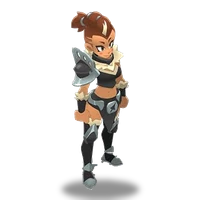
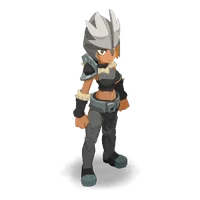
Forgelance : vrai rendu du jeu (8 têtes par sexe, couleurs, capes)
- Le jeu demande à DofusDB le corps et la tête séparément, cale la tête sur l'ombre au sol, la pose sur le cou et colore la peau quand elle arrive pâle (forgeLook dans ui.js). Résultat gardé en mémoire et dans le navigateur.
- Les 16 apparences de base et les portraits du Forgelance viennent de ce rendu ; choix de la tête et des couleurs réactivés pour lui.
- Les coiffes ne s'affichent pas sur le Forgelance (le moteur de rendu ne sait pas les poser).
- sw.js : images de renderer.dofusdb.fr mises en cache, cache des images media-v6.

Claude-Session: https://claude.ai/code/session_01TgfgsFbfimzPE6UbE45j36

Changed region(s): [[0.3, 0.03, 0.72, 1.0]]

diff --git a/js/ui.js b/js/ui.js
@@ -182,23 +182,72 @@ const lookLocal = (cls, sex, hi) => `assets/look/${cls}_${sex === "f" ? "f" : "m
 function lookUrl(c, opts = {}) {
   const L = LK.CLASS_LOOKS[c.cls]; if (!L) return null; const sx = c.sex === "f" ? "f" : "m"; const D2 = L[sx]; const hi = Math.max(0, Math.min(D2.heads.length - 1, c.head || 0));
   const skins = [D2.body, D2.heads[hi]];
-  if (!opts.bare && c.equip) ["coiffe", "cape"].forEach((sl) => { const it = S && S.items[c.equip[sl]]; const sk = it && LK.ITEM_SKINS[it.tpl]; if (sk) skins.push(sk); });
+  if (!opts.bare && c.equip) ["coiffe", "cape"].forEach((sl) => { const it = S && S.items[c.equip[sl]]; const sk = it && LK.ITEM_SKINS[it.tpl]; if (sk && !(c.cls === "forge" && sl === "coiffe")) skins.push(sk); }); // le moteur de rendu ne pose aucune coiffe sur le Forgelance
   const pal = LK.PALETTES.find((p) => p.id === (opts.palette || c.palette)) || LK.PALETTES[0];
   const cols = D2.colors.slice(); if (pal && pal.c) pal.c.forEach((v, i) => (cols[i + 1] = v));
-  if (c.cls === "forge" || (skins.length === 2 && (!pal || !pal.c))) return lookLocal(c.cls, sx, hi); // Forgelance : rendu Ankama défaillant (tête détachée), on garde nos images recomposées
+  if (skins.length === 2 && (!pal || !pal.c)) return lookLocal(c.cls, sx, hi);
+  if (c.cls === "forge") return forgeLook(skins, cols, sx, hi); // Forgelance : tête recollée sur le cou (voir forgeLook)
   const look = `{1|${skins.join(",")}|${cols.map((v, i) => `${i + 1}=${v}`).join(",")}|140}`;
   let hex = ""; for (const ch of unescape(encodeURIComponent(look))) hex += ch.charCodeAt(0).toString(16).padStart(2, "0");
   return `https://static.ankama.com/dofus/renderer/look/${hex}/full/1/200_200-10.png`;
 }
-const lookImg = (c, cls = "look", opts) => { const u = lookUrl(c, opts); if (!u) return ""; const fb = lookLocal(c.cls, c.sex, c.head || 0); return `<img class="${cls}" src="${u}" alt="" loading="lazy" onerror="if(this.src.indexOf('assets/look')<0){this.src='${fb}'}else{this.style.visibility='hidden'}">`; };
+/* Forgelance : les moteurs de rendu (Ankama et DofusDB) dessinent sa tête à côté du corps et sans ses couleurs.
+   On demande à DofusDB (qui autorise la lecture des pixels) le corps seul et la tête seule, on cale la tête sur l'ombre au sol
+   (repère commun aux deux images), on la pose sur le cou et on colore la peau quand elle arrive pâle. Résultat gardé en mémoire et dans le navigateur. */
+const FORGE_NECK = [-290, -420], FORGE_KEY = "idlus-forge-v1", FORGE = { map: null, wait: {} };
+const forgeHex = (skins, cols) => { let x = ""; for (const ch of `{1|${skins.join(",")}|${cols.map((v, i) => `${i + 1}=${v}`).join(",")}|140}`) x += ch.charCodeAt(0).toString(16).padStart(2, "0"); return `https://renderer.dofusdb.fr/look/${x}/full/1/300_300.png`; };
+function forgeStore() { if (!FORGE.map) { FORGE.map = new Map(); try { (JSON.parse(localStorage.getItem(FORGE_KEY)) || []).forEach(([k, v]) => FORGE.map.set(k, v)); } catch (e) { /* stockage indisponible */ } } return FORGE.map; }
+function forgeLook(skins, cols, sx, hi) {
+  const key = skins.join("-") + "_" + cols.join("-"), m = forgeStore();
+  if (m.has(key)) return { src: m.get(key), key };
+  if (!FORGE.wait[key]) FORGE.wait[key] = forgeCompose(skins, cols).then((url) => {
+    m.delete(key); m.set(key, url); while (m.size > 12) m.delete(m.keys().next().value);
+    try { localStorage.setItem(FORGE_KEY, JSON.stringify([...m])); } catch (e) { /* stockage plein : on garde en mémoire */ }
+    document.querySelectorAll(`img[data-fk="${key}"]`).forEach((im) => (im.src = url));
+  }).catch(() => {}); // hors ligne : l'image locale reste
+  return { src: lookLocal("forge", sx, hi), key };
+}
+const forgeLoad = (u) => new Promise((ok, ko) => { const i = new Image(); i.crossOrigin = "anonymous"; i.onload = () => ok(i); i.onerror = ko; i.src = u; });
+const forgePix = (img) => { const c = document.createElement("canvas"); c.width = img.naturalWidth; c.height = img.naturalHeight; const x = c.getContext("2d"); x.drawImage(img, 0, 0); return { c, d: x.getImageData(0, 0, c.width, c.height) }; };
+function forgeShadow(d, W, H) { // bas de l'ombre au sol, largeur et centre juste au-dessus
+  const on = (x, y) => d[(y * W + x) * 4 + 3] > 4; let y = H - 1; while (y > 0) { let x = 0; while (x < W && !on(x, y)) x++; if (x < W) break; y--; }
+  const yy = y - 6; let x0 = W, x1 = -1; for (let x = 0; x < W; x++) if (on(x, yy)) { if (x < x0) x0 = x; x1 = x; } return { y, w: Math.max(1, x1 - x0), cx: (x0 + x1) / 2 };
+}
+function forgeTint(d, cols) { // certaines têtes arrivent avec la peau non colorée (beige pâle) : on lui donne la couleur de peau ; le casque reste en métal
+  const skin = [(cols[0] >> 16) & 255, (cols[0] >> 8) & 255, cols[0] & 255];
+  for (let i = 0; i < d.length; i += 4) {
+    if (!d[i + 3]) continue; const r = d[i], g = d[i + 1], b = d[i + 2], mx = Math.max(r, g, b), mn = Math.min(r, g, b);
+    if (mx < 150 || mx - mn < 18 || !(r > b + 15 && r >= g) || (mx - mn) / mx > 0.3) continue;
+    const k = Math.min(1.2, (r * 0.3 + g * 0.59 + b * 0.11) / 215); d[i] = Math.min(255, skin[0] * k); d[i + 1] = Math.min(255, skin[1] * k); d[i + 2] = Math.min(255, skin[2] * k);
+  }
+}
+async function forgeCompose(skins, cols) {
+  const [B, Hd] = await Promise.all([forgeLoad(forgeHex([skins[0], ...skins.slice(2)], cols)), forgeLoad(forgeHex([skins[1]], cols))]);
+  const b = forgePix(B), h = forgePix(Hd), W = b.c.width, H = b.c.height, HW = h.c.width, HH = h.c.height, d = h.d.data;
+  const sb = forgeShadow(b.d.data, W, H), sh = forgeShadow(d, HW, HH), k = sb.w / sh.w;
+  let cut = HH, run = 0, best = 0; // l'ombre de la tête seule est sous la plus grande bande vide : on l'efface
+  for (let y = 0; y < HH; y++) { let x = 0; while (x < HW && d[(y * HW + x) * 4 + 3] <= 4) x++; if (x === HW) { if (++run > best) { best = run; cut = y; } } else run = 0; }
+  d.fill(0, cut * HW * 4); forgeTint(d, cols); h.c.getContext("2d").putImageData(h.d, 0, 0);
+  const pad = 400, out = document.createElement("canvas"); out.width = W; out.height = H + pad; const o = out.getContext("2d");
+  o.drawImage(B, 0, pad); o.drawImage(h.c, sb.cx - sh.cx * k + FORGE_NECK[0], pad + sb.y - sh.y * k + FORGE_NECK[1], HW * k, HH * k);
+  // recadrage comme les rendus Ankama (200 × 200, personnage sur ~90 % de la hauteur, centré)
+  const od = o.getImageData(0, 0, out.width, out.height).data; let x0 = W, y0 = out.height, x1 = 0, y1 = 0;
+  for (let y = 0; y < out.height; y++) for (let x = 0; x < W; x++) if (od[(y * W + x) * 4 + 3] > 4) { if (x < x0) x0 = x; if (x > x1) x1 = x; if (y < y0) y0 = y; if (y > y1) y1 = y; }
+  const S = 300, sc = Math.min(S * 0.905 / (y1 - y0), S * 0.9 / (x1 - x0)), fin = document.createElement("canvas"); fin.width = fin.height = S;
+  fin.getContext("2d").drawImage(out, x0, y0, x1 - x0, y1 - y0, (S - (x1 - x0) * sc) / 2, S * 0.045, (x1 - x0) * sc, (y1 - y0) * sc);
+  return fin.toDataURL("image/webp", 0.9);
+}
+const lookImg = (c, cls = "look", opts) => { const u = lookUrl(c, opts); if (!u) return ""; const fb = lookLocal(c.cls, c.sex, c.head || 0);
+  if (typeof u === "object") return `<img class="${cls}" src="${u.src}" data-fk="${u.key}" alt="" loading="lazy">`; // Forgelance recomposé (image locale en attendant)
+  return `<img class="${cls}" src="${u}" alt="" loading="lazy" onerror="if(this.src.indexOf('assets/look')<0){this.src='${fb}'}else{this.style.visibility='hidden'}">`; };
 function lookSheet(c) {
   const L = LK.CLASS_LOOKS[c.cls]; if (!L) return;
   const sx = c.sex === "f" ? "f" : "m";
   openSheet(`<h2>Apparence de ${h(c.name)}</h2>
     <div class="lookprev">${lookImg(c, "lookbig")}</div>
     <div class="small"><b>Sexe</b> <span class="seg">${[["m", "Homme"], ["f", "Femme"]].map(([v, n]) => `<button data-act="looksex" data-v="${v}" aria-pressed="${sx === v}">${n}</button>`).join("")}</span></div>
-    ${c.cls === "forge" ? "" : `<div class="small"><b>Tête</b><div class="headpick">${L[sx].heads.map((_, i) => `<button class="${(c.head || 0) === i ? "on" : ""}" data-act="lookhead" data-v="${i}">${`<img src="${lookLocal(c.cls, sx, i)}" alt="">`}</button>`).join("")}</div></div>`}
-    ${c.cls === "forge" ? `<p class="xs muted">Le Forgelance s'affiche avec son illustration officielle : une seule tête, ses couleurs d'origine, sans coiffe ni cape visibles.</p>` : ""}<div class="small" ${c.cls === "forge" ? 'style="display:none"' : ""}><b>Couleurs</b><div class="palpick">${LK.PALETTES.map((p) => { const cols = L[sx].colors.slice(); if (p.c) p.c.forEach((v, i) => (cols[i + 1] = v)); return `<button class="${(c.palette || "classique") === p.id ? "on" : ""}" data-act="lookpal" data-v="${p.id}"><span class="sw">${cols.slice(1, 5).map((v) => `<i style="background:#${v.toString(16).padStart(6, "0")}"></i>`).join("")}</span>${h(p.name)}</button>`; }).join("")}</div></div>
+    ${`<div class="small"><b>Tête</b><div class="headpick">${L[sx].heads.map((_, i) => `<button class="${(c.head || 0) === i ? "on" : ""}" data-act="lookhead" data-v="${i}">${`<img src="${lookLocal(c.cls, sx, i)}" alt="">`}</button>`).join("")}</div></div>`}
+    ${c.cls === "forge" ? `<p class="xs muted">Le Forgelance porte son casque de classe ; les coiffes ne s'affichent pas encore sur lui (les capes, si).</p>` : ""}<div class="small"><b>Couleurs</b><div class="palpick">${LK.PALETTES.map((p) => { const cols = L[sx].colors.slice(); if (p.c) p.c.forEach((v, i) => (cols[i + 1] = v)); return `<button class="${(c.palette || "classique") === p.id ? "on" : ""}" data-act="lookpal" data-v="${p.id}"><span class="sw">${cols.slice(1, 5).map((v) => `<i style="background:#${v.toString(16).padStart(6, "0")}"></i>`).join("")}</span>${h(p.name)}</button>`; }).join("")}</div></div>
     <p class="xs muted">${Object.keys(LK.ITEM_SKINS).length} coiffes et capes apparaissent déjà sur les héros ; les autres arriveront au fil des mises à jour.</p>
     <div><button class="btn primary" data-act="closesheet">Terminé</button></div>`);
 }
@@ -470,11 +519,11 @@ function classInfo(id, sex, hd) {
 }
 /* Choix de la tête dès la création du héros */
 function headPick(id, sex) {
-  const L = LK.CLASS_LOOKS[id]; const sx = sex === "f" ? "f" : "m"; if (!L || id === "forge" || L[sx].heads.length < 2) return "";
+  const L = LK.CLASS_LOOKS[id]; const sx = sex === "f" ? "f" : "m"; if (!L || L[sx].heads.length < 2) return "";
   const cur = Math.min(ui.startHead || 0, L[sx].heads.length - 1);
   return `<div class="stack" style="gap:4px"><span class="small muted">Tête</span><div class="headpick">${L[sx].heads.map((_, i) => `<button class="${cur === i ? "on" : ""}" data-act="starthead" data-v="${i}" aria-pressed="${cur === i}"><img src="${lookLocal(id, sx, i)}" alt="Tête ${i + 1}"></button>`).join("")}</div></div>`;
 }
-const startHeadOf = (id, sex) => { const L = LK.CLASS_LOOKS[id]; const n = L ? L[sex === "f" ? "f" : "m"].heads.length : 1; return id === "forge" ? 0 : Math.min(ui.startHead || 0, n - 1); };
+const startHeadOf = (id, sex) => { const L = LK.CLASS_LOOKS[id]; const n = L ? L[sex === "f" ? "f" : "m"].heads.length : 1; return Math.min(ui.startHead || 0, n - 1); };
 const hasPublicSave = () => { try { return !!localStorage.getItem("dofousxen-save"); } catch (e) { return false; } };
 function renderStart() {
   renderStatus(); renderNav();

diff --git a/sw.js b/sw.js
@@ -4,13 +4,13 @@
 const VERSION = "0.1.1";
 /* La version de test (/beta/) a ses propres caches : chaque service worker ne nettoie que les siens. */
 const P = /\/beta\/$/.test(self.registration.scope) ? "idlus-beta-" : "idlus-";
-const CORE = P + "core-" + VERSION, MEDIA = P + "media-v5";
+const CORE = P + "core-" + VERSION, MEDIA = P + "media-v6";
 const PRECACHE = ["./", "index.html", "css/style.css", "js/gamedata.js", "js/looks.js", "js/data.js", "js/engine.js", "js/systems.js", "js/ui.js", "js/admin.js", "manifest.webmanifest", "icons/icon-192.png", "icons/icon-512.png"];
 self.addEventListener("install", (e) => { e.waitUntil(caches.open(CORE).then((c) => c.addAll(PRECACHE)).then(() => self.skipWaiting())); });
 self.addEventListener("activate", (e) => {
   e.waitUntil(caches.keys().then((ks) => Promise.all(ks.filter((k) => (k.startsWith(P + "core-") && k !== CORE) || (k.startsWith(P + "media-") && k !== MEDIA)).map((k) => caches.delete(k)))).then(() => self.clients.claim()));
 });
-const isMedia = (u) => /\/(assets|icons)\//.test(u.pathname) || /fonts\.(gstatic|googleapis)\.com$/.test(u.hostname) || (u.hostname === "static.ankama.com" && u.pathname.startsWith("/dofus/renderer/"));
+const isMedia = (u) => /\/(assets|icons)\//.test(u.pathname) || /fonts\.(gstatic|googleapis)\.com$/.test(u.hostname) || (u.hostname === "static.ankama.com" && u.pathname.startsWith("/dofus/renderer/")) || u.hostname === "renderer.dofusdb.fr";
 self.addEventListener("fetch", (e) => {
   const req = e.request; if (req.method !== "GET") return;
   const u = new URL(req.url);

diff --git a/CLAUDE.md b/CLAUDE.md
@@ -6,7 +6,7 @@ Idle game de fan inspiré de DOFUS, par Mathis. Jeu : https://mathiss29.github.i
 - SPA en JavaScript sans build : `index.html`, `css/style.css`, `js/gamedata.js`, `js/looks.js`, `js/data.js`, `js/engine.js` (combat, stasis, équilibrage), `js/systems.js`, `js/ui.js` (rendu, CHANGELOG, GAME_VERSION).
 - Sauvegarde dans localStorage sous la clé `dofousxen-save` (ne pas renommer). Migrations via `E.VERSION` dans engine.js.
 - PWA : `sw.js` (VERSION = version du jeu ; MEDIA = cache des images, à incrémenter si une image change de contenu sans changer de nom), `manifest.webmanifest`, `icons/`.
-- Visuels : `assets/look` (héros en pied, rendus Ankama ; le Forgelance est recomposé à la main), `assets/ui` (icônes officielles), `assets/m`, `assets/s`, `assets/i`.
+- Visuels : `assets/look` (héros en pied, rendus Ankama ; le Forgelance est recomposé par le jeu à partir du rendu DofusDB, voir `forgeLook` dans ui.js), `assets/ui` (icônes officielles), `assets/m`, `assets/s`, `assets/i`.
 - Thèmes : `data-theme="emerald"` (défaut) et `"dark"` (Nuit violette).
 
 ## Publier une version
